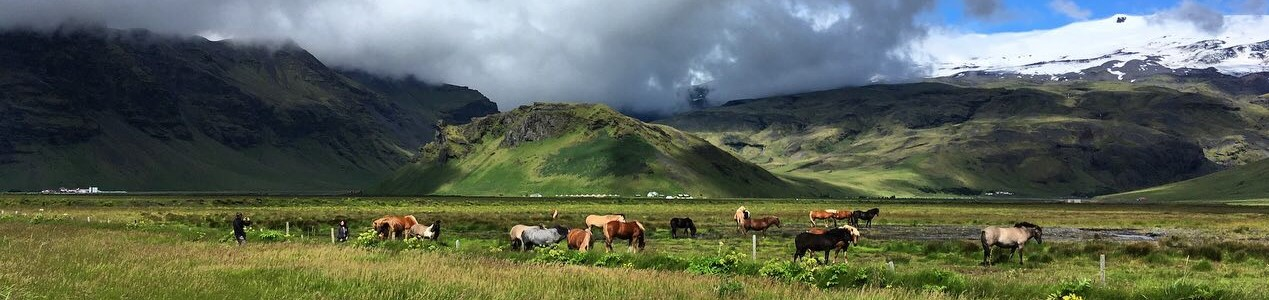
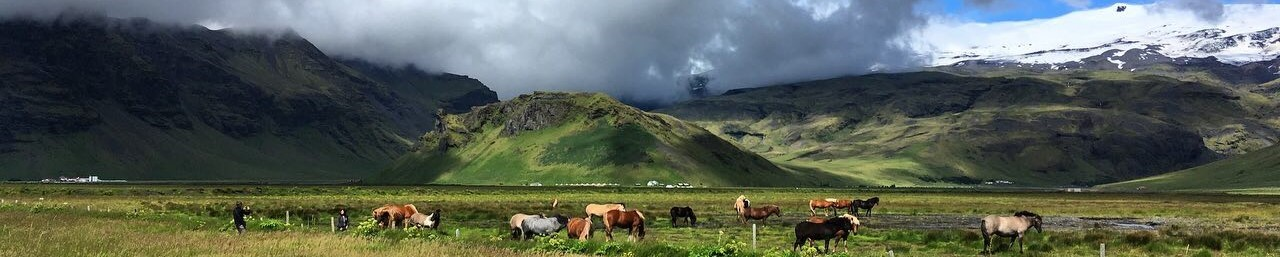
Style head te size of header-bg for better view of score-area

diff --git a/assets/js/script.js b/assets/js/script.js
@@ -121,7 +121,7 @@ const quizArray = [
   },
 
   {
-    statement: "Bamboo is a tree.",
+    statement: "A bamboo is a tree.",
     correctAnswer: false,
     imgFile: '<img src="assets/images/bamboo.jpg" alt="Bamboo" aria-labelledby=" Bamboo">',
     textInfo: "Bamboos are the largest members of the grass family. Bamboo is the fastest growing woody plant in the world; it can grow upto 35 inches in a single day.",
@@ -194,12 +194,12 @@ document.getElementById('true-button').addEventListener('click', function () {
 
   userAnswer = true;
   if (userAnswer === quizArray[i].correctAnswer) {
-    alert("You are right!")
+    alert("You are right!");
 
     let correctScore = parseInt(document.getElementById("correct").innerText) + 1;
     document.getElementById("correct").innerText = correctScore;
   } else {
-    alert("Sorry, you are wrong!")
+    alert("Sorry, you are wrong!");
     let wrongScore = parseInt(document.getElementById("wrong").innerText) + 1;
     document.getElementById("wrong").innerText = wrongScore;
   }
@@ -237,11 +237,11 @@ document.getElementById('next-button').addEventListener('click', function () {
 document.getElementById('false-button').addEventListener('click', function () {
   userAnswer = false;
   if (userAnswer === quizArray[i].correctAnswer) {
-    alert("You are right!")
+    alert("You are right!");
       let correctScore = parseInt(document.getElementById("correct").innerText) + 1;
       document.getElementById("correct").innerText = correctScore;
   } else {
-    alert("Sorry, you are wrong!")
+     alert("Sorry, you are wrong!");
     let wrongScore = parseInt(document.getElementById("wrong").innerText) + 1;
     document.getElementById("wrong").innerText = wrongScore;
   }

diff --git a/assets/css/style.css b/assets/css/style.css
@@ -19,7 +19,7 @@
     background-repeat: no-repeat;
     background-size: cover;
     width: 100%;
-    height: 20rem;
+    height: 19rem;
     text-align: center;
 }
 

diff --git a/README.md b/README.md
@@ -1,108 +1,25 @@
-![CI logo](https://codeinstitute.s3.amazonaws.com/fullstack/ci_logo_small.png)
+Flora and Fauna Quiz
+This site is an online quiz devoted to the interesting facts about animals and plants. The quiz's purpose is to entertain and educate children and adults loving nature of our mother Earth.
+ 
+Features
+Responsive on all device sizes
+Interactive elements
+Easy navigation
+22 statements which are offered to estimate as true of false ones (easily can be added more of them)
+A feedback after each answered question 
+Scores of right and wrong answers
+Congratulation at the end of the quiz
 
-Welcome Juniva616,
+Existing features
 
-This is the Code Institute student template for Gitpod. We have preinstalled all of the tools you need to get started. It's perfectly ok to use this template as the basis for your project submissions.
+Header and the title
 
-You can safely delete this README.md file, or change it for your own project. Please do read it at least once, though! It contains some important information about Gitpod and the extensions we use. Some of this information has been updated since the video content was created. The last update to this file was: **September 1, 2021**
+The quiz takes one page with the background image which covers the header and footer and the bright title of the quiz - "Flora & Fauna", which attracts the attention of the user and gives a clear idea of the site purpose.
 
-## Gitpod Reminders
+The game area
+Main part of the viewport takes the game area with are images to the left and to the right and a central question area with the text.
+The quiz starts with the welcoming message with explanations of the rules. It makes the users comfortable and gives clear and understandable directions what they should do to start the quiz.
 
-To run a frontend (HTML, CSS, Javascript only) application in Gitpod, in the terminal, type:
+When the button START is pressed the statement with an interesting and little known fact about a plant or an animal
 
-`python3 -m http.server`
-
-A blue button should appear to click: _Make Public_,
-
-Another blue button should appear to click: _Open Browser_.
-
-To run a backend Python file, type `python3 app.py`, if your Python file is named `app.py` of course.
-
-A blue button should appear to click: _Make Public_,
-
-Another blue button should appear to click: _Open Browser_.
-
-In Gitpod you have superuser security privileges by default. Therefore you do not need to use the `sudo` (superuser do) command in the bash terminal in any of the lessons.
-
-To log into the Heroku toolbelt CLI:
-
-1. Log in to your Heroku account and go to *Account Settings* in the menu under your avatar.
-2. Scroll down to the *API Key* and click *Reveal*
-3. Copy the key
-4. In Gitpod, from the terminal, run `heroku_config`
-5. Paste in your API key when asked
-
-You can now use the `heroku` CLI program - try running `heroku apps` to confirm it works. This API key is unique and private to you so do not share it. If you accidentally make it public then you can create a new one with _Regenerate API Key_.
-
-------
-
-## Release History
-
-We continually tweak and adjust this template to help give you the best experience. Here is the version history:
-
-**September 1 2021:** Remove `PGHOSTADDR` environment variable.
-
-**July 19 2021:** Remove `font_fix` script now that the terminal font issue is fixed.
-
-**July 2 2021:** Remove extensions that are not available in Open VSX.
-
-**June 30 2021:** Combined the P4 and P5 templates into one file, added the uptime script. See the FAQ at the end of this file.
-
-**June 10 2021:** Added: `font_fix` script and alias to fix the Terminal font issue
-
-**May 10 2021:** Added `heroku_config` script to allow Heroku API key to be stored as an environment variable.
-
-**April 7 2021:** Upgraded the template for VS Code instead of Theia.
-
-**October 21 2020:** Versions of the HTMLHint, Prettier, Bootstrap4 CDN and Auto Close extensions updated. The Python extension needs to stay the same version for now.
-
-**October 08 2020:** Additional large Gitpod files (`core.mongo*` and `core.python*`) are now hidden in the Explorer, and have been added to the `.gitignore` by default.
-
-**September 22 2020:** Gitpod occasionally creates large `core.Microsoft` files. These are now hidden in the Explorer. A `.gitignore` file has been created to make sure these files will not be committed, along with other common files.
-
-**April 16 2020:** The template now automatically installs MySQL instead of relying on the Gitpod MySQL image. The message about a Python linter not being installed has been dealt with, and the set-up files are now hidden in the Gitpod file explorer.
-
-**April 13 2020:** Added the _Prettier_ code beautifier extension instead of the code formatter built-in to Gitpod.
-
-**February 2020:** The initialisation files now _do not_ auto-delete. They will remain in your project. You can safely ignore them. They just make sure that your workspace is configured correctly each time you open it. It will also prevent the Gitpod configuration popup from appearing.
-
-**December 2019:** Added Eventyret's Bootstrap 4 extension. Type `!bscdn` in a HTML file to add the Bootstrap boilerplate. Check out the <a href="https://github.com/Eventyret/vscode-bcdn" target="_blank">README.md file at the official repo</a> for more options.
-
-------
-
-## FAQ about the uptime script
-
-**Why have you added this script?**
-
-It will help us to calculate how many running workspaces there are at any one time, which greatly helps us with cost and capacity planning. It will help us decide on the future direction of our cloud-based IDE strategy.
-
-**How will this affect me?**
-
-For everyday usage of Gitpod, it doesn’t have any effect at all. The script only captures the following data:
-
-- An ID that is randomly generated each time the workspace is started.
-- The current date and time
-- The workspace status of “started” or “running”, which is sent every 5 minutes.
-
-It is not possible for us or anyone else to trace the random ID back to an individual, and no personal data is being captured. It will not slow down the workspace or affect your work.
-
-**So….?**
-
-We want to tell you this so that we are being completely transparent about the data we collect and what we do with it.
-
-**Can I opt out?**
-
-Yes, you can. Since no personally identifiable information is being captured, we'd appreciate it if you let the script run; however if you are unhappy with the idea, simply run the following commands from the terminal window after creating the workspace, and this will remove the uptime script:
-
-```
-pkill uptime.sh
-rm .vscode/uptime.sh
-```
-
-**Anything more?**
-
-Yes! We'd strongly encourage you to look at the source code of the `uptime.sh` file so that you know what it's doing. As future software developers, it will be great practice to see how these shell scripts work.
-
----
-
-Happy coding!
+ 
